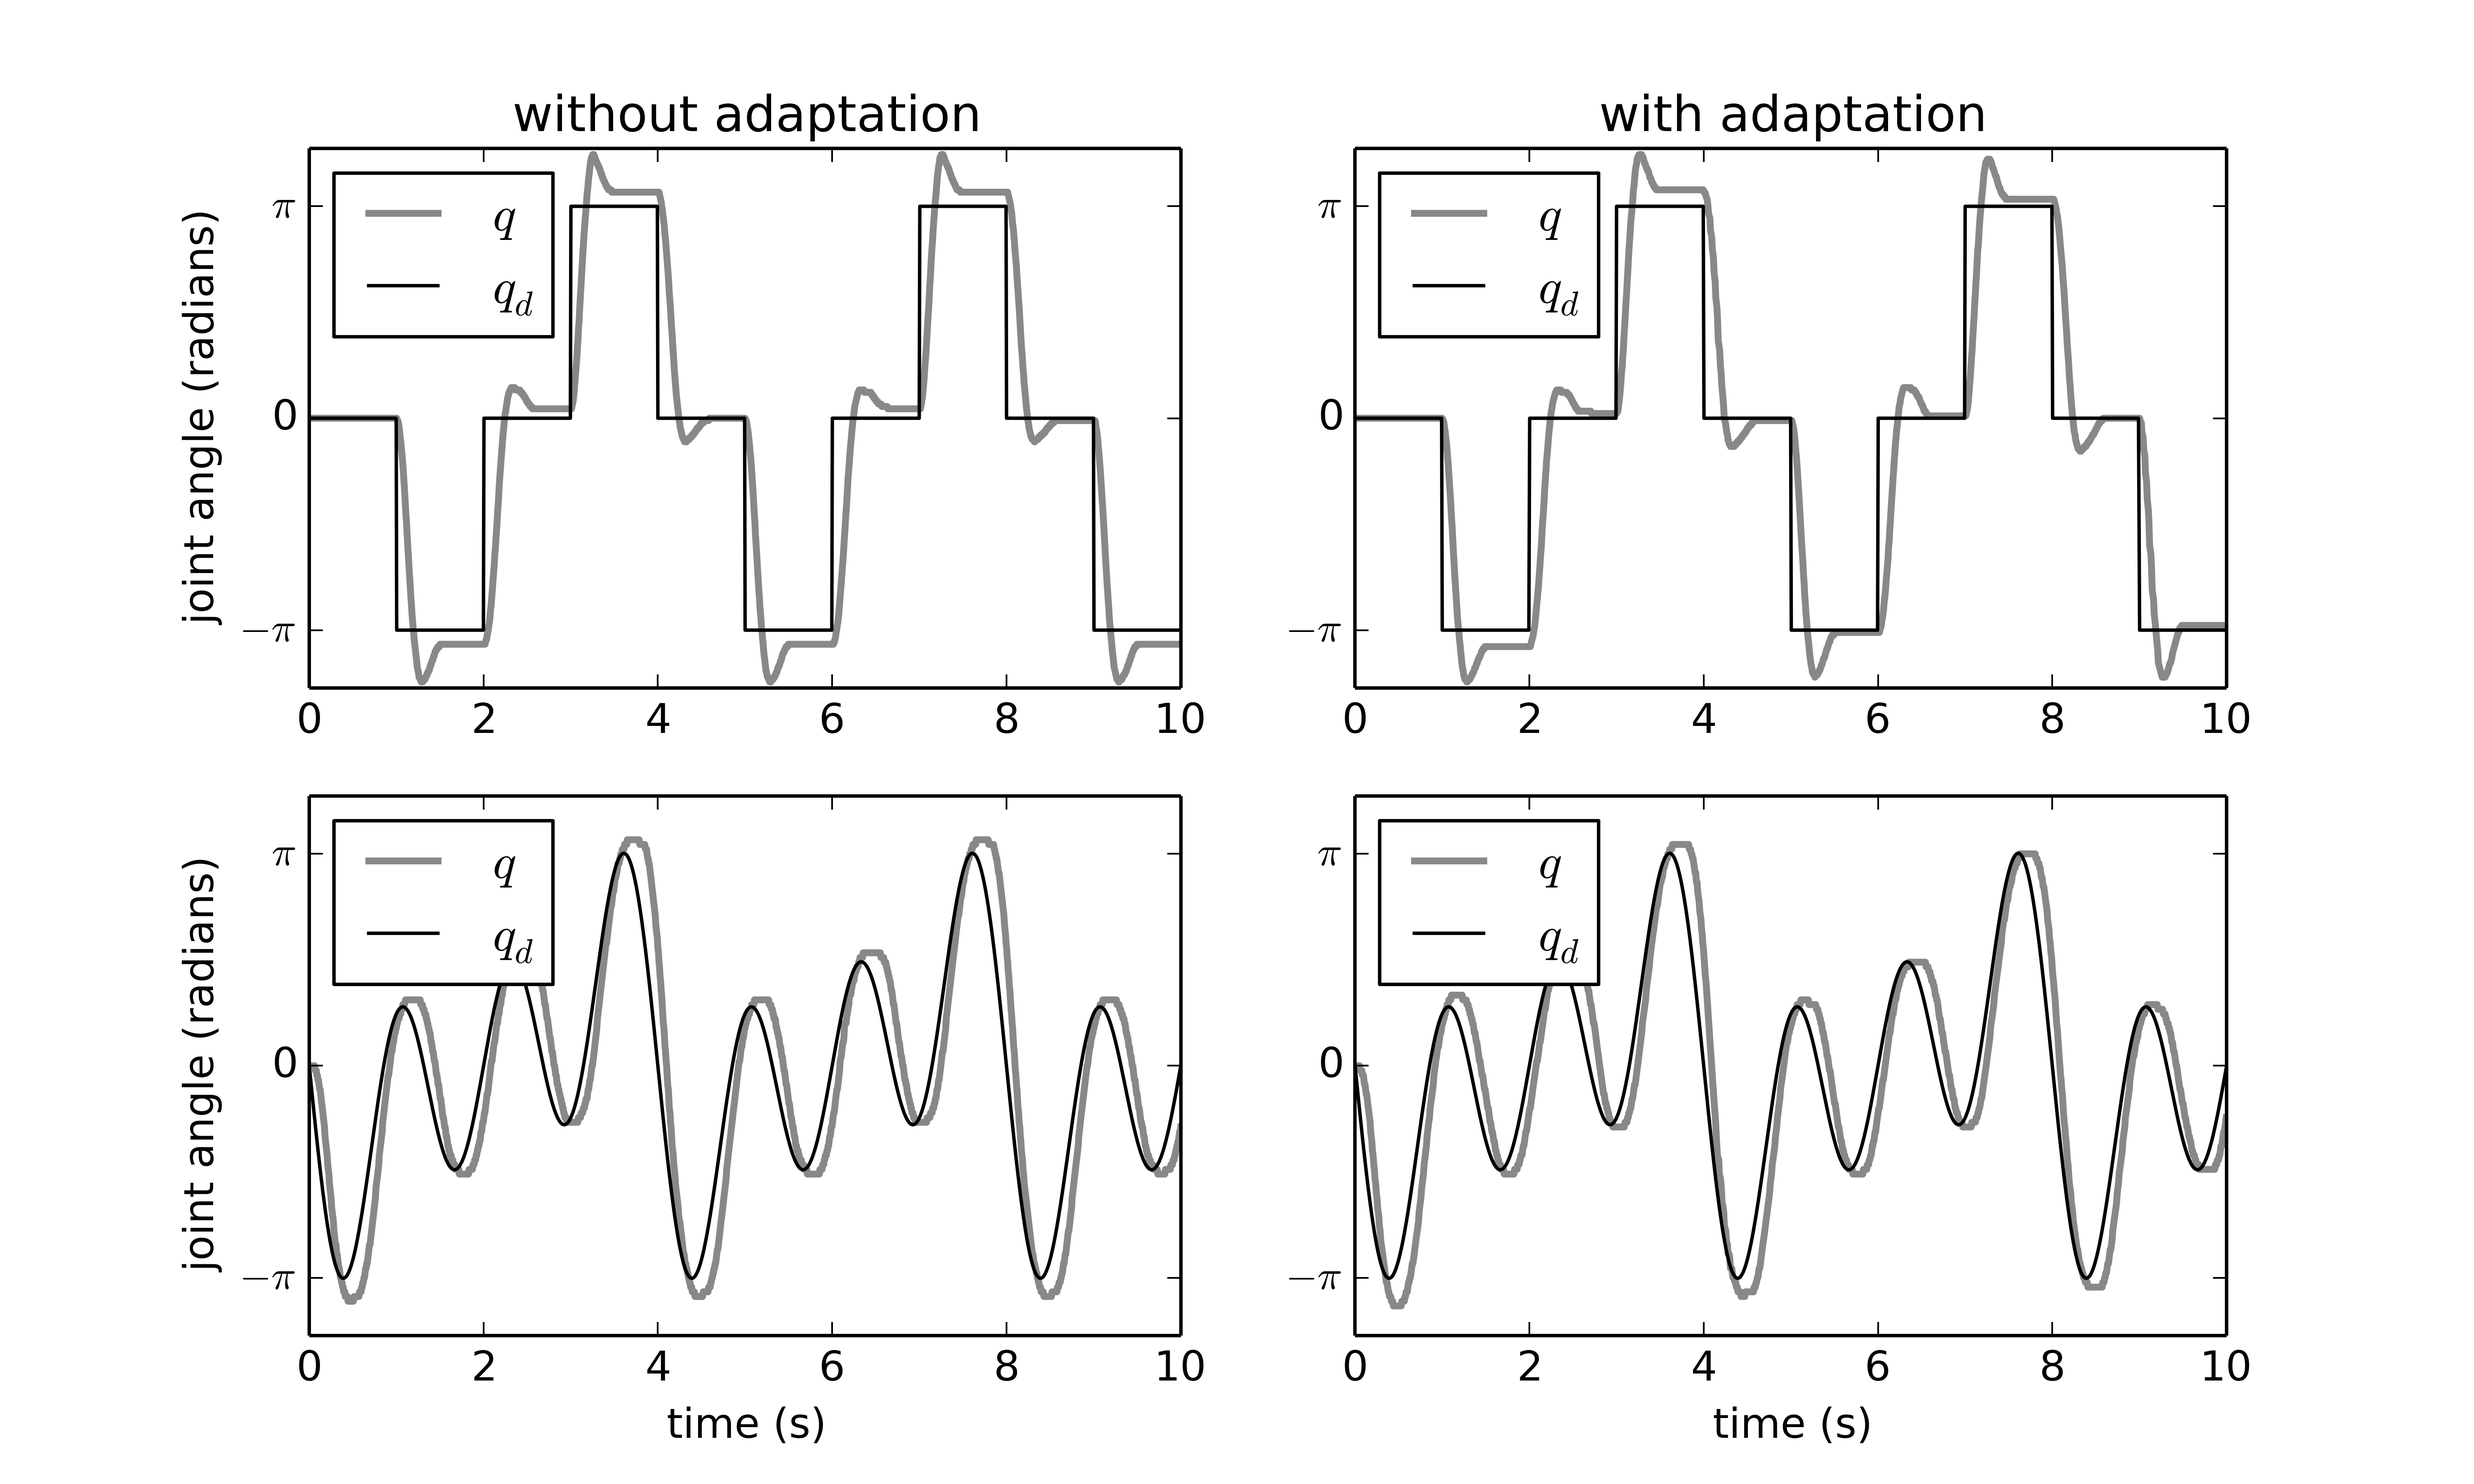
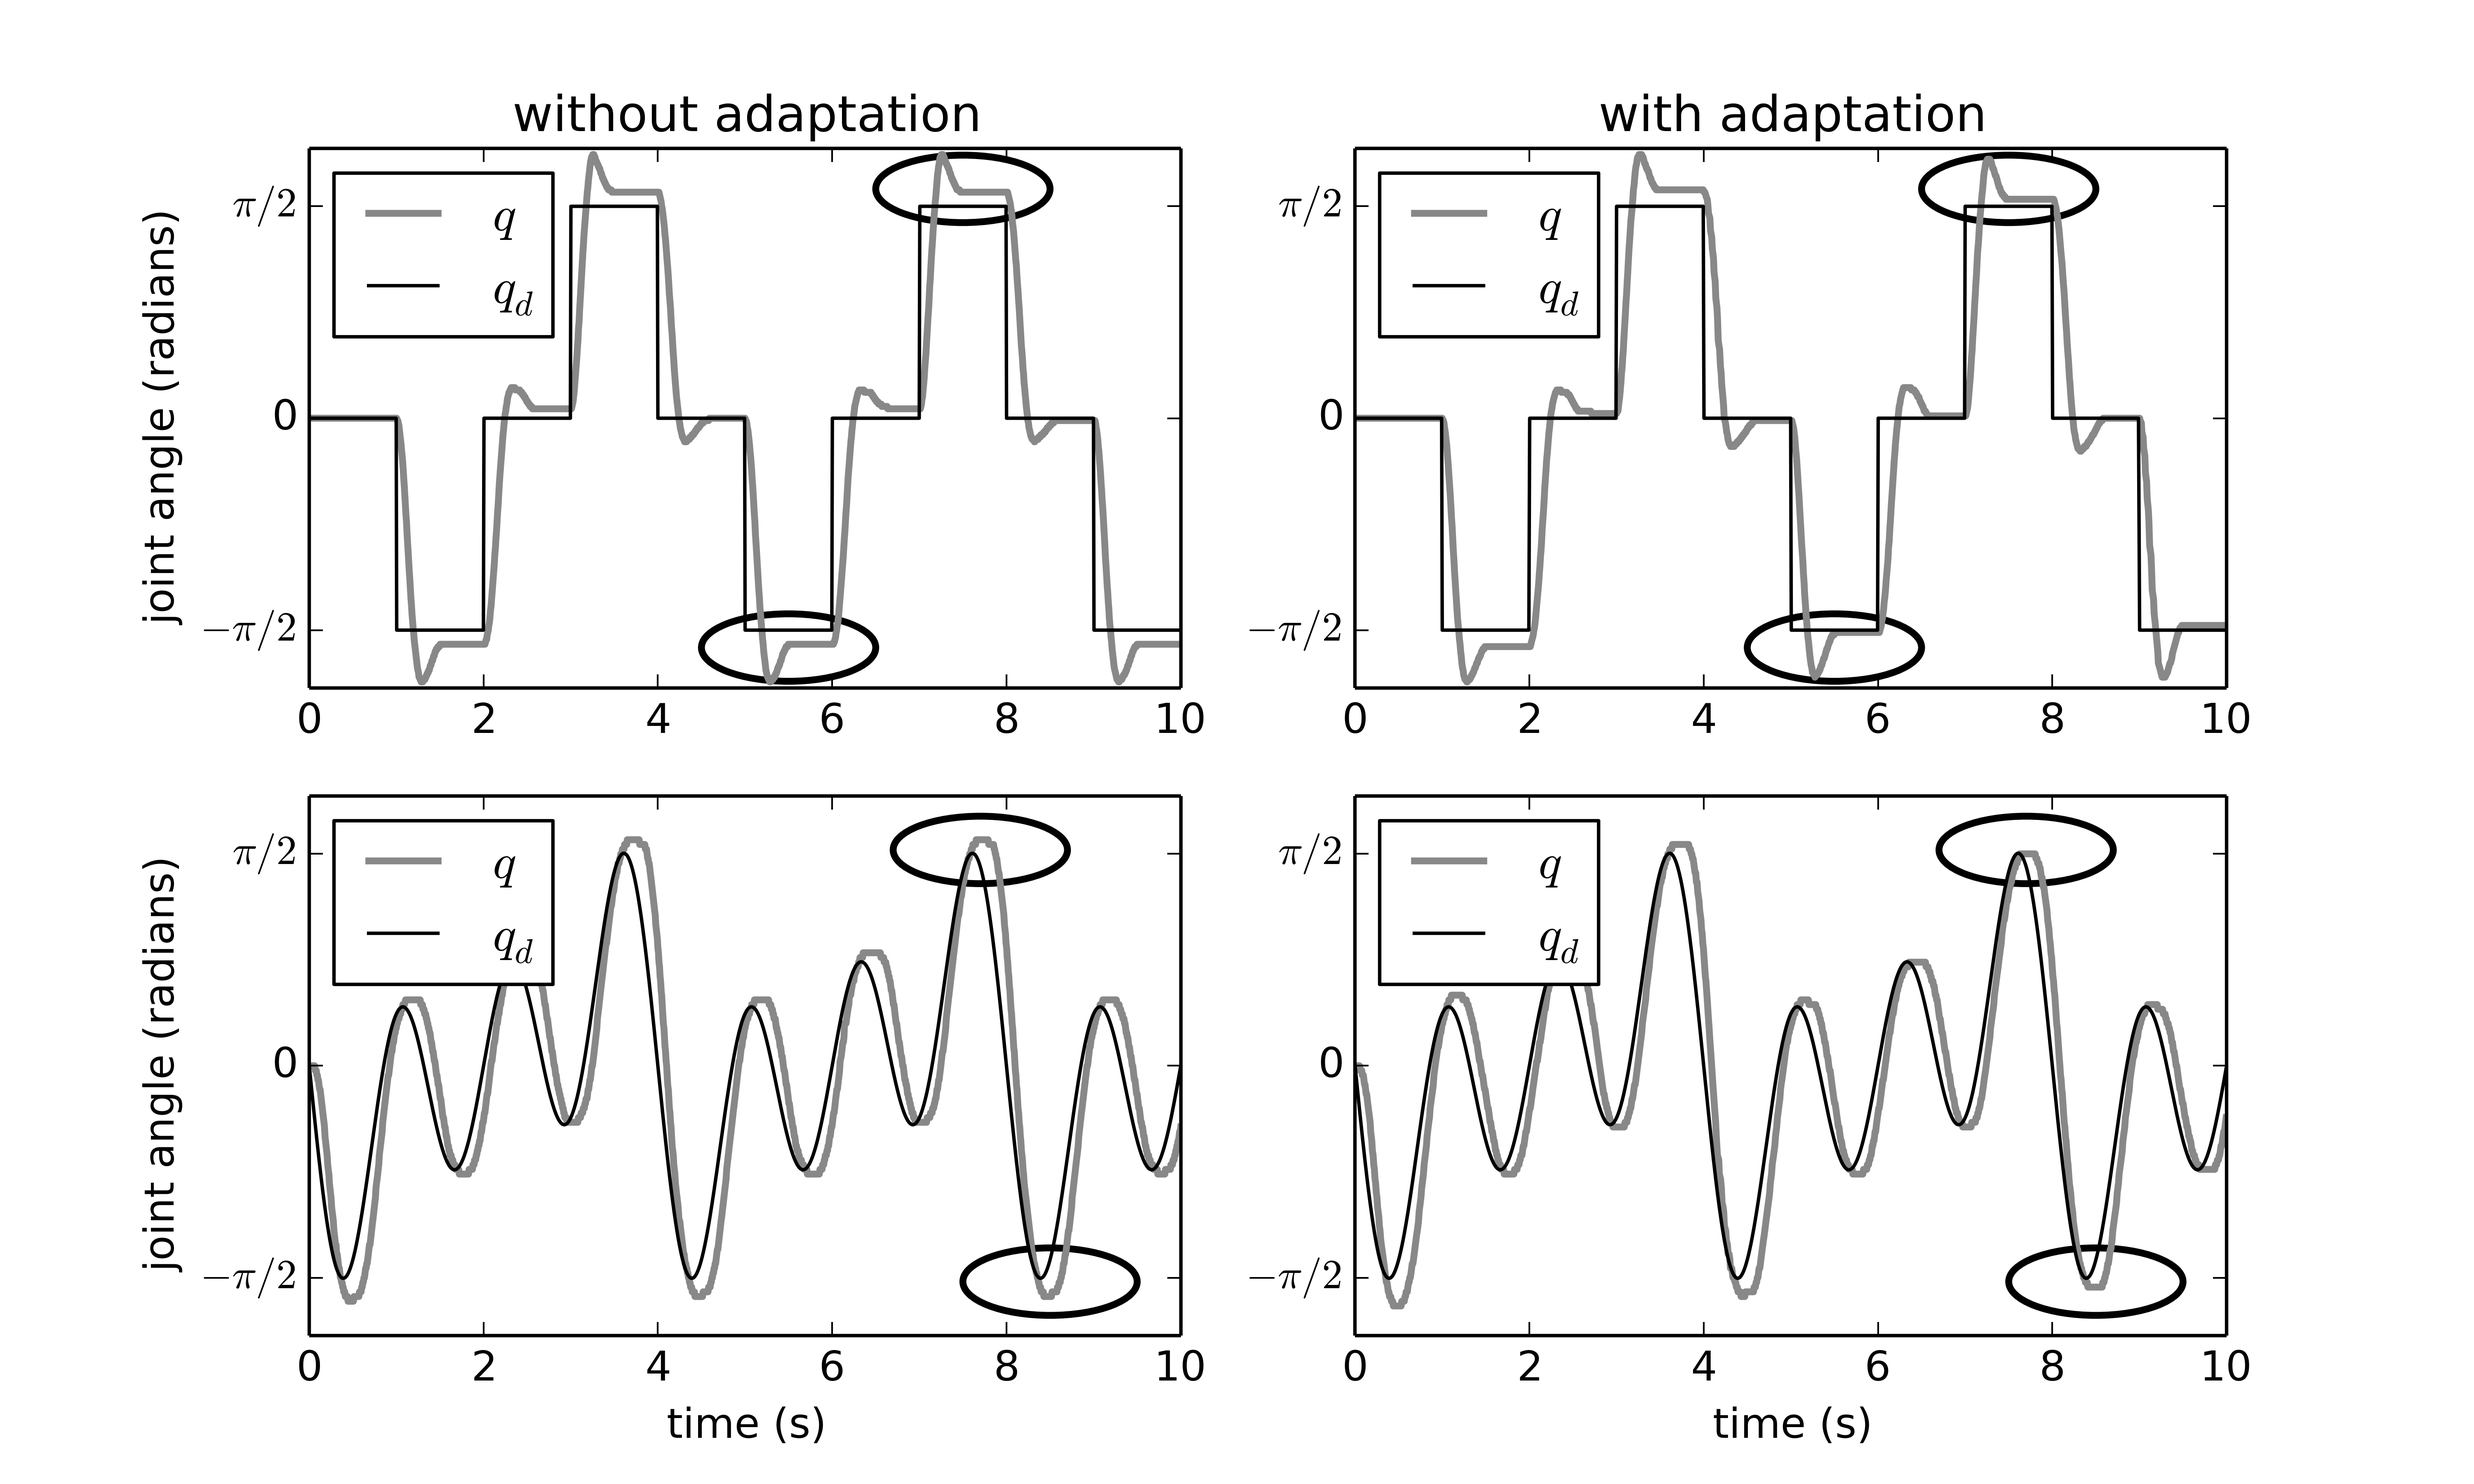
Added circles to figure for clarity

diff --git a/paper/paper.tex b/paper/paper.tex
@@ -904,7 +904,8 @@ Ontario Innovation Trust.
 \end{center}
  \textbf{\refstepcounter{figure}\label{fig:ev3} Figure \arabic{figure}.}{ Adaptive control of the EV3 lego robot used for calibrating the minimal simulation.
  The effects of adaptation over two different desired trajectories are shown.  Without adaptation, the joints $q$ do not reach the desired $q_d$ when $q_d$ is large (which
- is when the external force is largest).  With adaptation, $q$ is closer to $q_d$ after about 5 seconds, showing that the system has quickly learned to compensate.}
+ is when the external force is largest).  With adaptation, $q$ is closer to $q_d$ after about 5 seconds, showing that the system has quickly learned to compensate.
+ Points in time where the improvement is clearest are circled.}
 \end{figure}
 
 \begin{figure}[h!]
